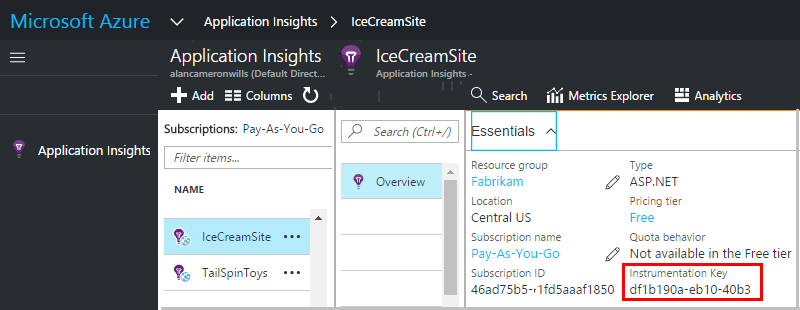
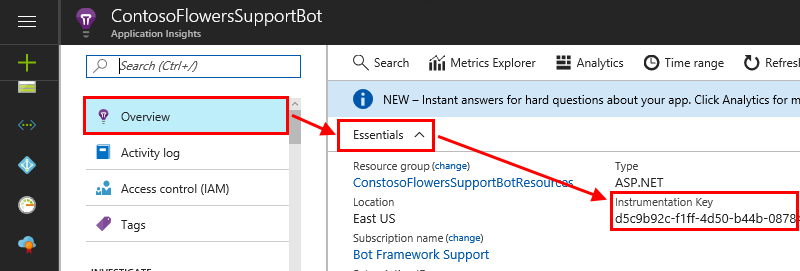
Appinsights screenshot update (#110)
* Add new screenshots

* Add new screenshot

* Update screenshots resolution

* Update screenshots resolution

* Removing weird bullet point

* Update screen shots and instructions.

* remove instruction

* Revised and added screenshot for bot settings screen.

* Added <br/> to break image from wrapping.

* Fixing image spacing problem

* Fixing indentation

diff --git a/articles/resources-app-insights-keys.md b/articles/resources-app-insights-keys.md
@@ -12,42 +12,52 @@ ms.reviewer:
 
 # Application Insights keys
 
-Azure Application Insights displays data about your application in a Microsoft Azure resource. To add telemetry to your bot you need an Azure subscription and an Application Insights resource created for your bot. From this resource, you can obtain three keys to configure your bot:
+Azure Application Insights displays data about your application in a Microsoft Azure resource. To add telemetry to your bot you need an Azure subscription and an Application Insights resource created for your bot. From this resource, you can obtain the three keys to configure your bot:
 
 1. Instrumentation key
 2. Application ID
 3. API key
 
+To configure these three keys, you must [register your bot](portal-register-bot.md). Then, locate these fields in your bot's settings page under the section labeled **Analytics**. The following screenshot shows the Analytics fields.
+![Portal screen capture of bot settings.](~/media/portal-app-insights-analytics.png)
+
 ## Instrumentation key
 
 To get the Instrumentation key, do the following:
-1. From the [portal.azure.com](http://portal.azure.com), create a new **Application Insights** resource (or use an existing one).
-2. From the list of Application Insights resource, click the Application Insight resource you just created.
-3. Click **Overview**.
-4. Expand the **Essentials** block and find the **Instrumentation Key**. See the screen capture below for reference.
-5. Copy the **Instrumentation Key** and paste it to the **AppInsights Instrumentation Key** field of your bot's settings.
+1. From the [portal.azure.com](http://portal.azure.com), under the Monitor section, create a new **Application Insights** resource (or use an existing one).
+![Portal screen capture of Application Insights listing.](~/media/portal-app-insights-add-new.png)
 
+2. From the list of Application Insights resources, click the Application Insight resource you just created.
+
+3. Click **Overview**.
+
+4. Expand the **Essentials** block and find the **Instrumentation Key**. 
 ![Portal screen capture of the Instrumentation key.](~/media/portal-app-insights-instrumentation-key.png)
+
+5. Copy the **Instrumentation Key** and paste it to the **AppInsights Instrumentation Key** field of your bot's settings.
 
 ## Application ID
 
 To get the Application ID, do the following:
 1. From your Application Insights resource, click **API Access**.
-2. Copy the **Application ID** and paste it to the **AppInsights Application ID** field of your bot's settings. See the screen capture in the next section for reference.
+
+2. Copy the **Application ID** and paste it to the **AppInsights Application ID** field of your bot's settings. 
+![Portal screen capture of the Application ID.](~/media/portal-app-insights-appid.png)
 
 ## API key
 
 To get the API key, do the following:
 1. From the Application Insights resource, click **API Access**.
+
 2. Click **Create API Key**.
+
 3. Enter a short description, check the **Read telementry** option, and click the **Generate key** button.
+![Portal screen capture of the Application ID and API Key.](~/media/portal-app-insights-appid-apikey.png)
 
    > [!WARNING]
    > Copy this **API key** and save it because this key will never be shown to you again. If you lose this key, you have to create a new one.
 
-4. Copy the API key to the **AppInsights API key** field of your bot's settings. See the screen capture below for reference.
-
-![Portal screen capture of the Application ID and API Key.](~/media/portal-app-insights-appid-apikey.png)
+4. Copy the API key to the **AppInsights API key** field of your bot's settings.
 
 ## Additional resources
-- For more information on how to connect these fields into your bot's settings, see [Enable analytics](~/portal-analytics-overview.md).
+For more information on how to connect these fields into your bot's settings, see [Enable analytics](~/portal-analytics-overview.md).
